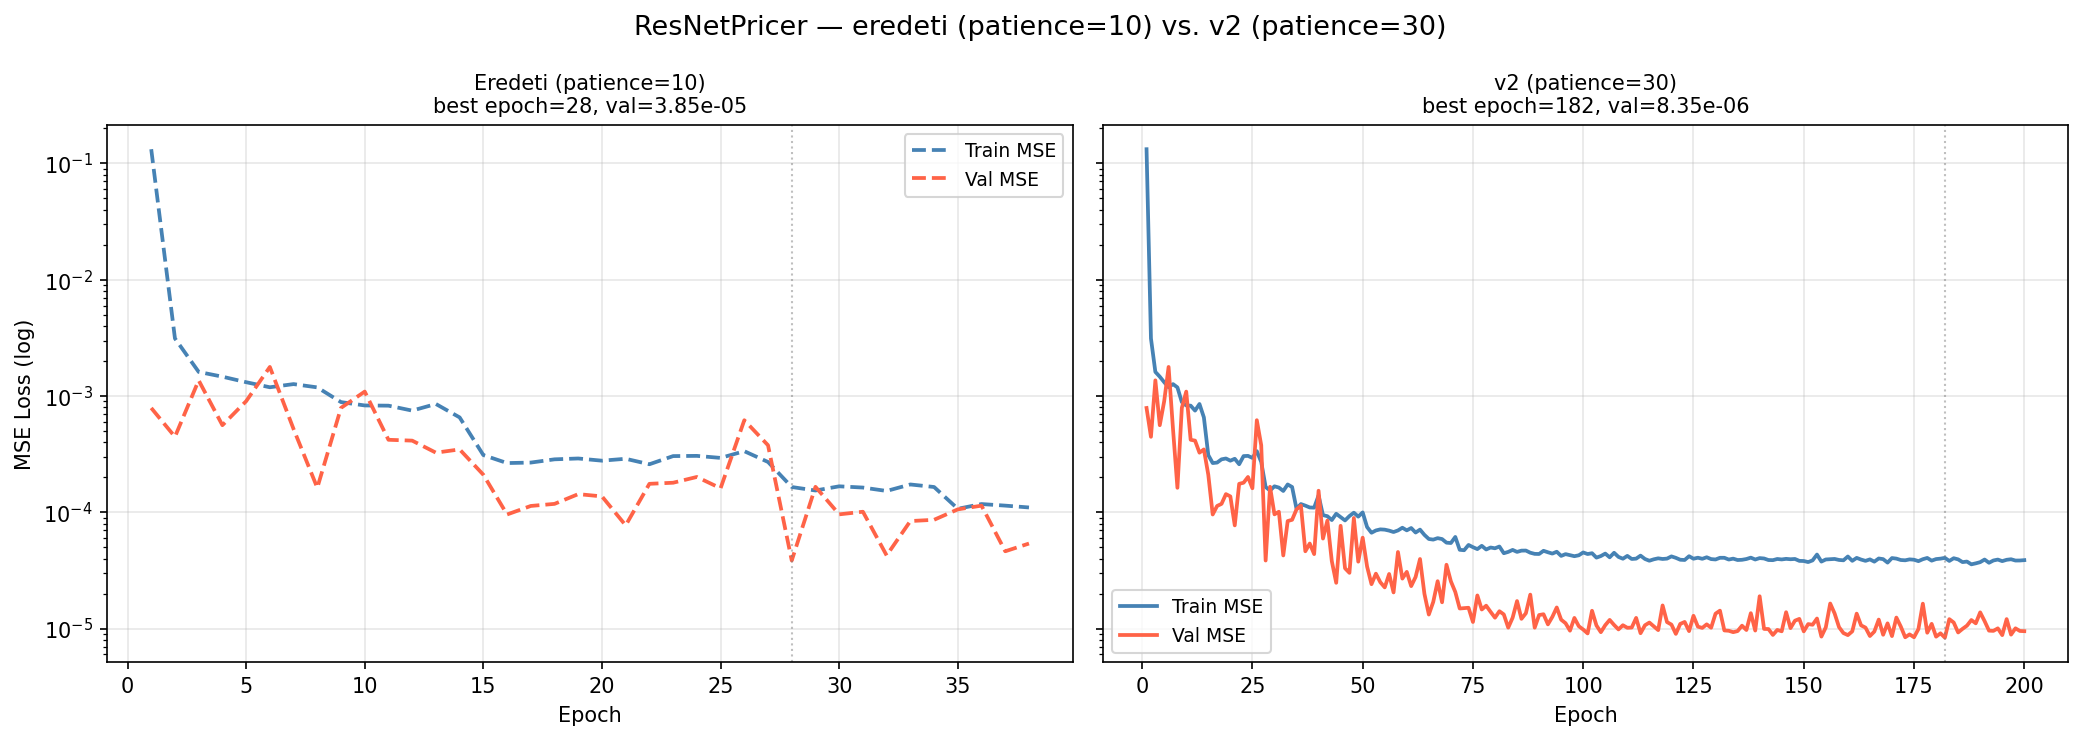
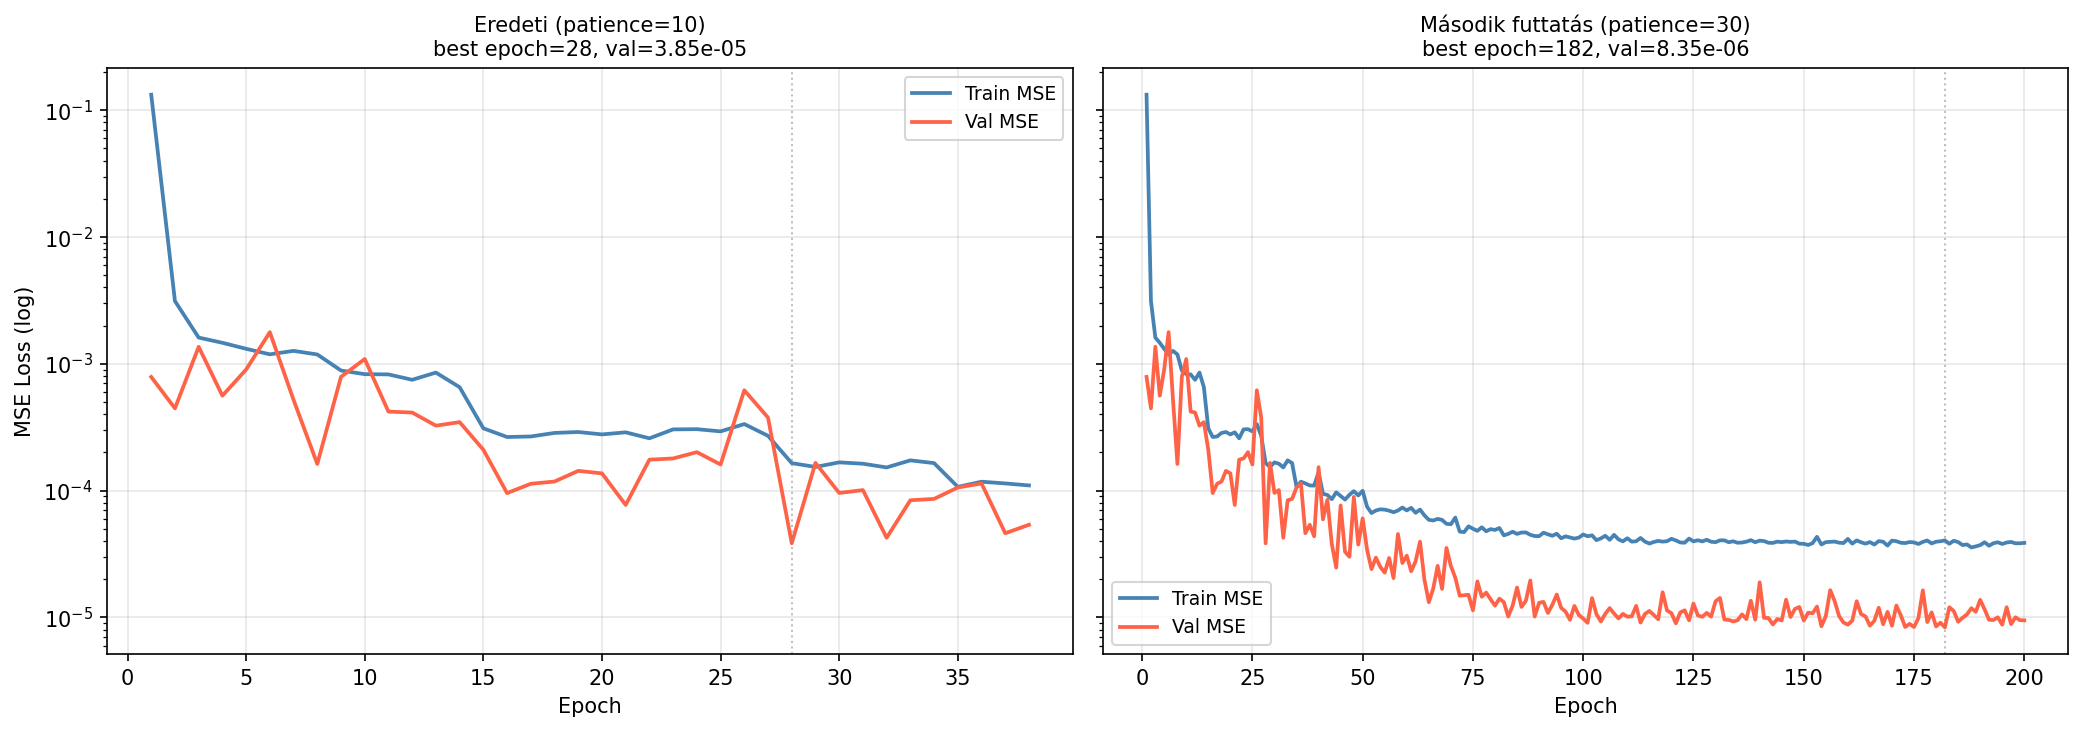
Plots: cím eltávolítva, vonalstílus és felirat javítva az összehasonlító ábrákon
- compare_best_val_mse_bar: cím eltávolítva, 'v2' → 'Második futtatás' a jelmagyarázatban
- compare_ResNetPricer: fő cím eltávolítva, Eredeti plot vonalai folytonossá téve, 'v2' → 'Második futtatás'

diff --git a/generate_comparison_plots.py b/generate_comparison_plots.py
@@ -67,11 +67,9 @@ for model in V2_MODELS:
 
     color = COLORS[model]
     fig, axes = plt.subplots(1, 2, figsize=(14, 5), sharey=True)
-    fig.suptitle(f'{model} — eredeti (patience=10) vs. v2 (patience=30)', fontsize=13)
-
     for ax, df, label, ls in [
-        (axes[0], df_orig, 'Eredeti (patience=10)', '--'),
-        (axes[1], df_v2,   'v2 (patience=30)',      '-'),
+        (axes[0], df_orig, 'Eredeti (patience=10)',          '-'),
+        (axes[1], df_v2,   'Második futtatás (patience=30)', '-'),
     ]:
         ax.plot(df['epoch'], df['train_loss'], color='steelblue',
                 linewidth=1.8, linestyle=ls, label='Train MSE')
@@ -148,7 +146,7 @@ bars1 = ax.bar(x - width/2, orig_vals, width, label='Eredeti (patience=10)',
                color='steelblue', edgecolor='black', linewidth=0.6, alpha=0.85)
 bars2_vals = [v if v is not None else 0 for v in v2_vals]
 bars2_vis  = [v is not None for v in v2_vals]
-bars2 = ax.bar(x + width/2, bars2_vals, width, label='v2 (patience=30)',
+bars2 = ax.bar(x + width/2, bars2_vals, width, label='Második futtatás (patience=30)',
                color='tomato', edgecolor='black', linewidth=0.6, alpha=0.85)
 for bar, vis in zip(bars2, bars2_vis):
     if not vis:
@@ -157,7 +155,6 @@ for bar, vis in zip(bars2, bars2_vis):
 ax.set_yscale('log')
 ax.set_xlabel('Modell', fontsize=12)
 ax.set_ylabel('Legjobb Val MSE (log-skála)', fontsize=12)
-ax.set_title('Legjobb validációs MSE — eredeti vs. v2 futtatás', fontsize=13)
 ax.set_xticks(x)
 ax.set_xticklabels(labels, rotation=15, ha='right')
 ax.legend(fontsize=10)
